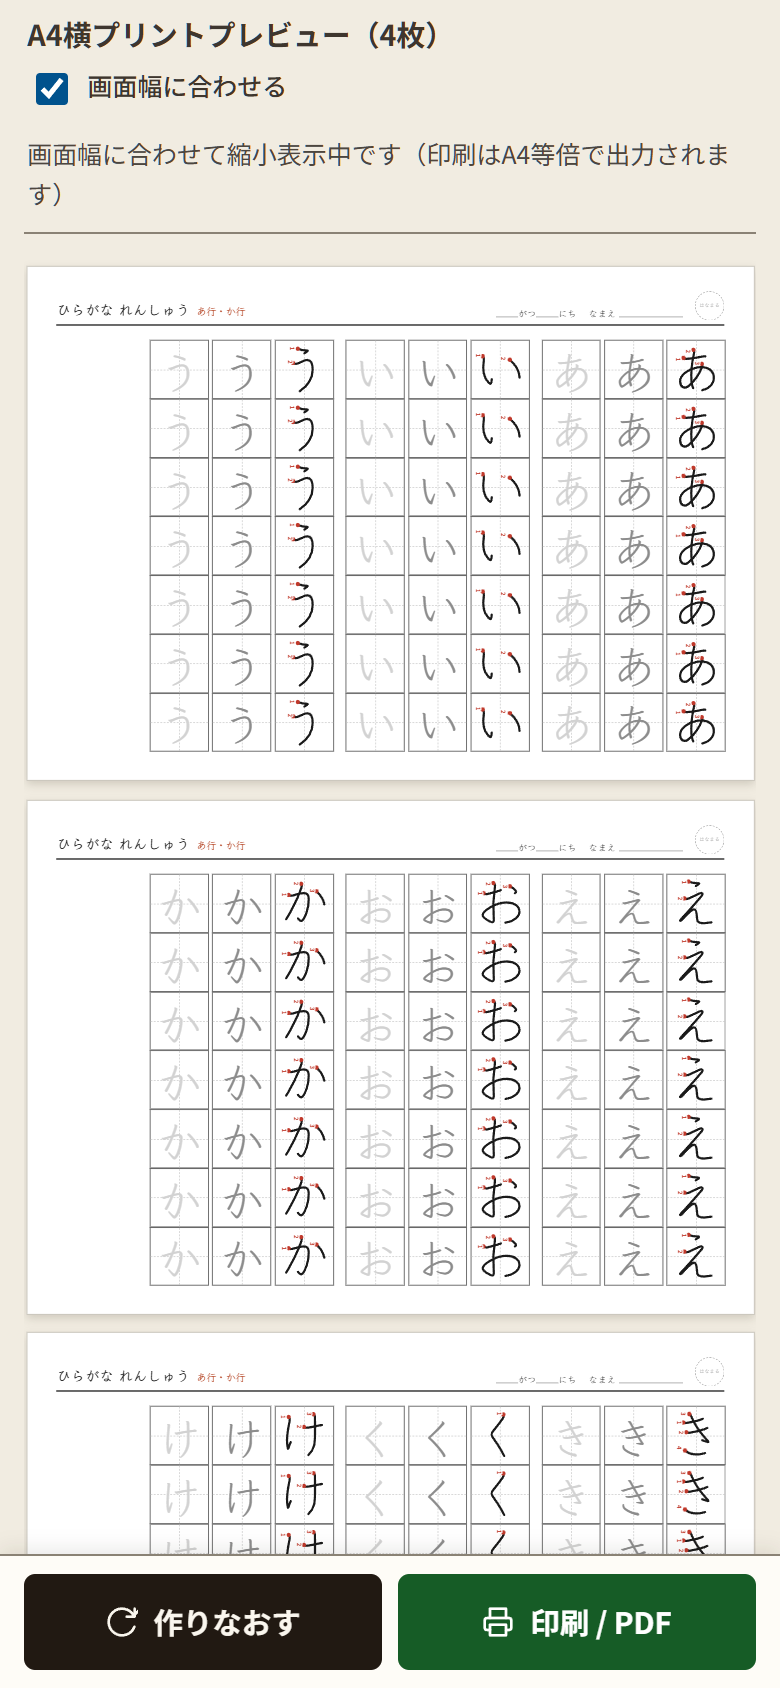
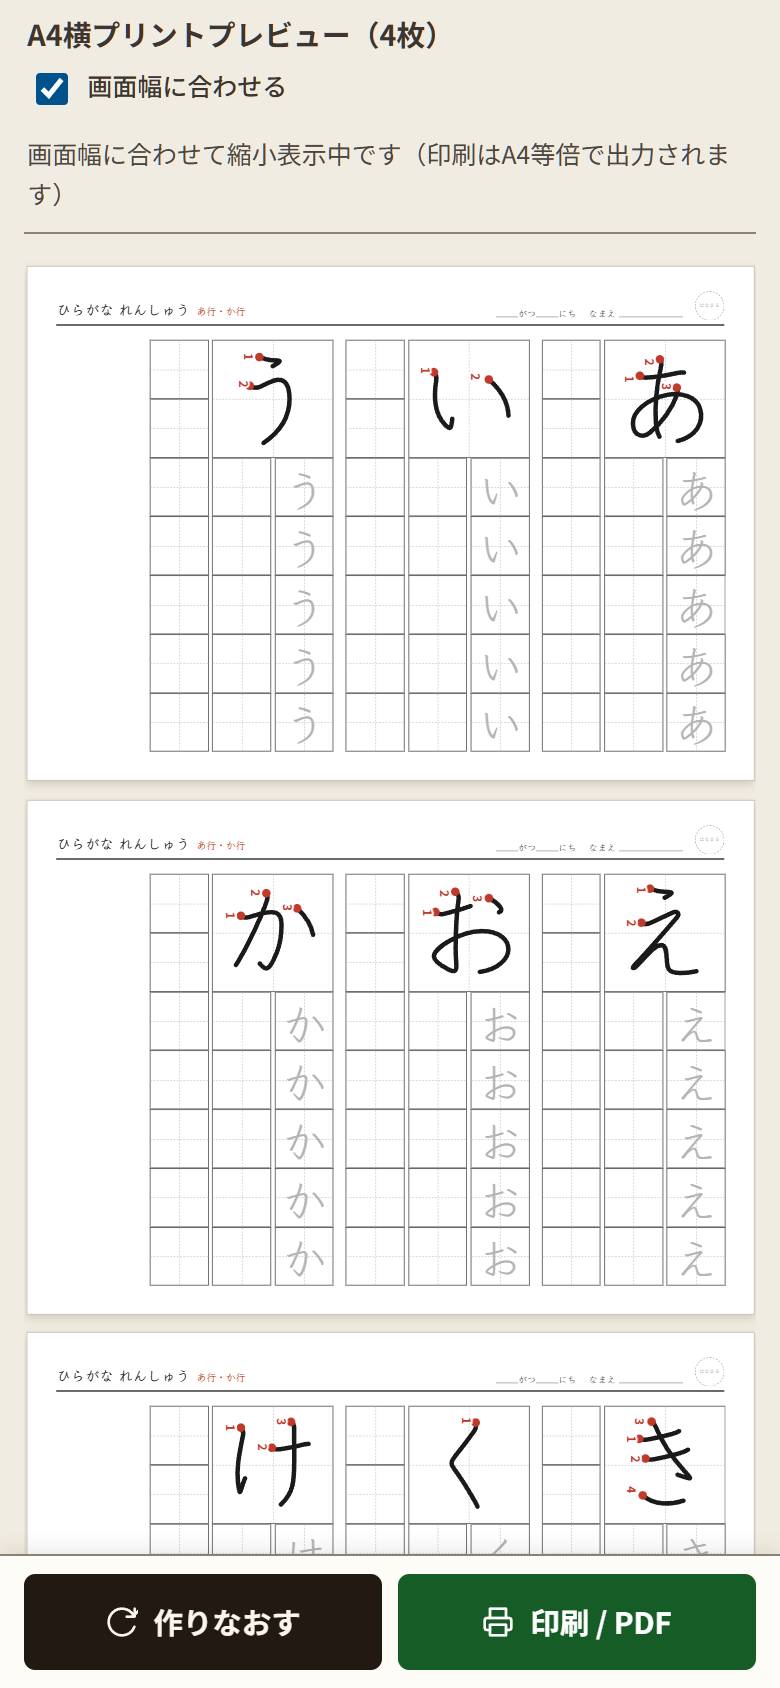
行れんしゅうを「大きな手本1つ＋なぞり1列＋書く列」に変え、字の大きさを選べるようにする
- 1文字ごとに、右上に4マス分（2×2）の大きな手本を1つ置く
- 手本の下の右の列をうすいなぞり字1列、左の列とその左を空マス（書く列）にする
- 「書く列の数」（1〜4列）と「字の大きさ」（マスの6割・7割半・8割半）を追加
- 行れんしゅうでは「なぞる数」「だんだんうすくする」を使わない
- Service Worker のキャッシュ名を更新
- README・利用ガイド・スクリーンショットを新しいレイアウトに合わせる

diff --git a/public/app.js b/public/app.js
@@ -69,9 +69,9 @@ const RADIOS = ['format', 'script'];
 const SELECTS = {
   linesPerUnit: 'linesPerUnit', singleLines: 'singleLines', chartMode: 'chartMode', blankRate: 'blankRate',
   source: 'source', order: 'order', cellSize: 'cellSize', traceCount: 'traceCount', glyph: 'glyphSelect',
-  traceStyle: 'traceStyle', sets: 'setCount',
+  traceStyle: 'traceStyle', sets: 'setCount', blankCols: 'blankCols', glyphScale: 'glyphScale',
 };
-const NUMERIC = new Set(['linesPerUnit', 'singleLines', 'blankRate', 'cellSize', 'traceCount', 'sets']);
+const NUMERIC = new Set(['linesPerUnit', 'singleLines', 'blankRate', 'cellSize', 'traceCount', 'sets', 'blankCols', 'glyphScale']);
 const CHECKS = {
   answer: 'opt-answer', showPicture: 'opt-picture', fade: 'opt-fade', strokeNumbers: 'opt-numbers',
   startDots: 'opt-start', guides: 'opt-guides', metaName: 'meta-name', metaDate: 'meta-date',
@@ -112,11 +112,11 @@ function applyConfig(cfg) {
 const SEION = ROWS.filter(r => r.group === 'seion').map(r => r.key);
 const RECOMMEND = {
   first: { format: 'single', script: 'hira', source: 'rows', rows: ['a'], cellSize: 30, glyph: 'stroke', traceStyle: 'dot', traceCount: 4, singleLines: 2, strokeNumbers: true, startDots: true, order: 'seq' },
-  nencho: { format: 'line', script: 'hira', source: 'rows', rows: ['a', 'ka'], cellSize: 24, glyph: 'klee', traceStyle: 'gray', traceCount: 3, linesPerUnit: 1, strokeNumbers: true, startDots: true, order: 'seq' },
-  grade1: { format: 'line', script: 'hira', source: 'rows', rows: SEION, cellSize: 20, glyph: 'klee', traceStyle: 'gray', traceCount: 2, linesPerUnit: 1, strokeNumbers: false, order: 'seq' },
+  nencho: { format: 'line', script: 'hira', source: 'rows', rows: ['a', 'ka'], cellSize: 24, glyph: 'klee', traceStyle: 'gray', traceCount: 3, blankCols: 2, strokeNumbers: true, startDots: true, order: 'seq' },
+  grade1: { format: 'line', script: 'hira', source: 'rows', rows: SEION, cellSize: 20, glyph: 'klee', traceStyle: 'gray', traceCount: 2, blankCols: 2, strokeNumbers: false, order: 'seq' },
   chart: { format: 'chart', script: 'hira', source: 'rows', rows: SEION, chartMode: 'fill', blankRate: 35, answer: true, cellSize: 24, glyph: 'klee' },
   word: { format: 'word', script: 'hira', source: 'rows', rows: ['a', 'ka', 'sa'], cellSize: 20, glyph: 'klee', traceStyle: 'gray', traceCount: 1, linesPerUnit: 1, showPicture: true, strokeNumbers: false, order: 'seq' },
-  dakuon: { format: 'line', script: 'hira', source: 'rows', rows: ['ga', 'za', 'da', 'ba', 'pa', 'y-き', 'y-し', 'y-ち'], cellSize: 20, glyph: 'klee', traceStyle: 'gray', traceCount: 2, linesPerUnit: 1, strokeNumbers: false, order: 'seq' },
+  dakuon: { format: 'line', script: 'hira', source: 'rows', rows: ['ga', 'za', 'da', 'ba', 'pa', 'y-き', 'y-し', 'y-ち'], cellSize: 20, glyph: 'klee', traceStyle: 'gray', traceCount: 2, blankCols: 2, strokeNumbers: false, order: 'seq' },
   katakana: { format: 'single', script: 'kata', source: 'rows', rows: ['a'], cellSize: 30, glyph: 'stroke', traceStyle: 'dot', traceCount: 4, singleLines: 2, strokeNumbers: true, startDots: true, order: 'seq' },
 };
 
@@ -215,6 +215,10 @@ function wrapSheet(body, cfg, badge) {
   const sheet = document.createElement('div');
   sheet.className = 'sheet';
   sheet.style.setProperty('--kana-font', FONTS[cfg.glyph] || FONTS.klee);
+  // 字の大きさ（マスに対する割合）。書き順データの字はふつう（76%）を基準に拡大・縮小する
+  const scale = (cfg.glyphScale || 76) / 100;
+  sheet.style.setProperty('--glyph-scale', String(scale));
+  sheet.style.setProperty('--glyph-ratio', String(scale / 0.76));
   sheet.appendChild(buildSheetHeader(cfg, badge));
   sheet.appendChild(body);
   return sheet;

diff --git a/public/sheets.js b/public/sheets.js
@@ -198,24 +198,64 @@ function fadeColumnsBlock(text, dims, s, ctx, { gap, head } = {}) {
 }
 
 // ===== A. 行れんしゅう =====
+// 1文字ぶんは、右上に 4マス分（2×2）の大きな手本を1つ。
+// その下の右の列をうすいなぞり字、左の列を空マスにし、さらに左へ空マスの列を続ける。
+//   cfg.blankCols: 書く列（空マスの列）の数。手本の下の左の列も1つに数える。
+function repeatLine(unit, kind, cap, s, gap, extra = {}) {
+  const len = [...unit].length * s;
+  const count = Math.max(1, Math.floor((cap + gap + 0.01) / (len + gap)));
+  return flow(Array.from({ length: count },
+    () => ({ cells: cellsOf(unit, kind, { unit, ...extra }), gapBefore: gap })), cap, s)[0];
+}
+
+function bigModelBlock(unit, dims, s, ctx, blankCols) {
+  const chars = [...unit];
+  const gap = chars.length > 1 ? SLOT_GAP : 0;
+  // 幅は2列ぶん（列のすきまも含む）、高さは2マスぶんにして、下と左の列にそろえる
+  const big = s * 2;
+  const rest = dims.inline - big * chars.length;
+
+  const el = document.createElement('div');
+  el.className = 'unit-block big-model-block';
+  const top = document.createElement('div');
+  top.className = 'line';
+  const model = document.createElement('div');
+  model.className = 'cell-group';
+  chars.forEach(ch => {
+    const box = cell({ kind: 'model', ch, unit }, big, ctx);
+    box.style.blockSize = (big + GAP_IN) + 'mm';
+    model.appendChild(box);
+  });
+  top.appendChild(model);
+
+  const under = document.createElement('div');
+  under.className = 'under-model';
+  const trace = repeatLine(unit, 'trace', rest, s, gap, { color: traceColor(0, 1, false) });
+  const firstBlank = repeatLine(unit, 'blank', rest, s, gap);
+  const traceEl = renderLine(trace, s, ctx);
+  const blankEl = renderLine(firstBlank, s, ctx);
+  blankEl.style.marginBlockStart = GAP_IN + 'mm';
+  under.append(traceEl, blankEl);
+  top.appendChild(under);
+  el.appendChild(top);
+
+  let used = big * chars.length + trace.used;
+  for (let i = 1; i < blankCols; i++) {
+    const line = repeatLine(unit, 'blank', dims.inline, s, gap);
+    const lineEl = renderLine(line, s, ctx);
+    lineEl.style.marginBlockStart = GAP_IN + 'mm';
+    el.appendChild(lineEl);
+    used = Math.max(used, line.used);
+  }
+  const cols = blankCols + 1; // なぞりの列 + 書く列
+  return { el, size: cols * s + (cols - 1) * GAP_IN, used };
+}
+
 export function buildLinePages(cfg, units, ctx) {
   const dims = paperDims(cfg);
   const s = cfg.cellSize;
-  if (ctx.fade) {
-    const blocks = units.map(unit => fadeColumnsBlock(unit, dims, s, ctx,
-      { gap: [...unit].length > 1 ? SLOT_GAP : 0 }));
-    const maxUsed = Math.max(0, ...blocks.map(b => b.used));
-    return pagesToBodies(paginate(blocks, dims, 5), dims, 5, maxUsed);
-  }
-  const blocks = units.map(unit => {
-    const gap = [...unit].length > 1 ? SLOT_GAP : 0;
-    const base = [{ cells: cellsOf(unit, 'model', { unit }), gapBefore: gap }]
-      .concat(traceGroups(unit, cfg.traceCount, ctx, gap, unit));
-    const lines = fillWithBlanks(base, () => ({ cells: cellsOf(unit, 'blank'), gapBefore: gap }),
-      dims.inline, s, cfg.linesPerUnit);
-    return unitBlock(lines, s, ctx);
-  });
-  const between = cfg.linesPerUnit > 1 ? 5 : 2.5;
+  const blocks = units.map(unit => bigModelBlock(unit, dims, s, ctx, cfg.blankCols));
+  const between = 5;
   const maxUsed = Math.max(0, ...blocks.map(b => b.used));
   return pagesToBodies(paginate(blocks, dims, between), dims, between, maxUsed);
 }

diff --git a/public/index.html b/public/index.html
@@ -56,7 +56,7 @@
           <label class="format-option">
             <input type="radio" name="format" value="line" checked>
             <span class="format-name">行れんしゅう</span>
-            <span class="format-desc">右の列から 手本→なぞり</span>
+            <span class="format-desc">大きな手本→なぞり1列→書く列</span>
           </label>
           <label class="format-option">
             <input type="radio" name="format" value="single">
@@ -75,7 +75,22 @@
           </label>
         </div>
 
-        <div class="op-block" data-for="line word">
+        <div class="op-block" data-for="line">
+          <div class="op-title">行れんしゅうの設定</div>
+          <div class="digits-wrap">
+            <label class="digit-field">書く列の数
+              <select id="blankCols">
+                <option value="1">1列</option>
+                <option value="2" selected>2列</option>
+                <option value="3">3列</option>
+                <option value="4">4列</option>
+              </select>
+            </label>
+          </div>
+          <div class="help-text">1文字ごとに、右上に4マス分の大きな手本を1つ置きます。手本の下の右の列はうすいなぞり字、そこから左は自分で書く空マスの列です。書く列の数には、手本の下の左の列も入ります。</div>
+        </div>
+
+        <div class="op-block" data-for="word">
           <div class="op-title">行の設定</div>
           <div class="digits-wrap">
             <label class="digit-field">1つあたりの行数
@@ -190,6 +205,13 @@
               <option value="16">小（16mm）</option>
             </select>
           </label>
+          <label class="digit-field">字の大きさ
+            <select id="glyphScale">
+              <option value="60">小（マスの6割）</option>
+              <option value="76" selected>ふつう（マスの7割半）</option>
+              <option value="86">大（マスの8割半）</option>
+            </select>
+          </label>
           <label class="digit-field">なぞる数
             <select id="traceCount">
               <option value="0">なし</option>
@@ -201,7 +223,7 @@
             </select>
           </label>
         </div>
-        <div class="help-text">目安：年少・年中は特大、年長は大、小学1年は中。</div>
+        <div class="help-text">目安：年少・年中は特大、年長は大、小学1年は中。字の大きさはマスに対する大きさです。行れんしゅうは なぞりが1列に決まっているので、なぞる数は使いません。</div>
 
         <div class="form-group" style="margin-top:1rem;">
           <label for="glyphSelect">字のかたち</label>

diff --git a/public/style.css b/public/style.css
@@ -426,10 +426,11 @@ textarea:focus-visible { border-color: var(--color-ink-2); outline: 2px solid va
   display: block;
   writing-mode: horizontal-tb;
   font-family: var(--kana-font);
-  font-size: calc(var(--cell) * 0.76);
+  font-size: calc(var(--cell) * var(--glyph-scale, 0.76));
   line-height: 1;
 }
-.glyph-svg { position: relative; z-index: 1; display: block; width: 100%; height: 100%; }
+.glyph-svg { position: relative; z-index: 1; display: block; flex: none; width: calc(100% * var(--glyph-ratio, 1)); height: calc(100% * var(--glyph-ratio, 1)); }
+.under-model { flex: none; }
 .v-small { transform: translate(20%, -44%); }
 .v-rotate { transform: rotate(90deg); }
 

diff --git a/public/sw.js b/public/sw.js
@@ -1,4 +1,4 @@
-const CACHE_NAME = 'hiragana-renshu-v2';
+const CACHE_NAME = 'hiragana-renshu-v3';
 const PRECACHE_URLS = [
   '/', '/index.html', '/style.css', '/app.js', '/store.js', '/kana.js', '/render.js', '/sheets.js',
   '/data/strokes.js', '/manifest.webmanifest', '/icons/hiragana.svg',

diff --git a/docs/USAGE.md b/docs/USAGE.md
@@ -53,11 +53,13 @@
 
 ![行れんしゅうのプリント](screenshots/sheet-line.png)
 
-1文字ずつ練習します。「なぞる字をだんだんうすくする」がオンのときは、右の列から **手本 → なぞり字（濃い）→ なぞり字（うすい）** の3列が並びます。
+1文字ずつ練習します。1文字ごとに、次のように並びます。
 
-オフのときは、1行（1列）に上から **手本 → なぞり字 → 空マス** を並べます。
+1. 右上に、**4マス分（2×2）の大きな手本**を1つ。
+2. 手本の下の右の列に、ふつうのマスで**うすいなぞり字を1列**。
+3. 手本の下の左の列と、そこから左に続く列は、自分で書く**空マス**。
 
-- **1つあたりの行数**（1〜3行）：オフのときに使います。増やすと、空マスで書く量が増えます。
+- **書く列の数**（1〜4列）：空マスの列の数です。手本の下の左の列も1つに数えます。
 
 ### 1もじじっくり
 
@@ -86,7 +88,7 @@
 選んだ行の字ではじまることば（「あり」「いぬ」など）を練習します。「なぞる字をだんだんうすくする」がオンのときは、右の列から **絵つきの手本 → なぞり字（濃い）→ なぞり字（うすい）** の3列、オフのときは1列に絵・手本・なぞり・空マスを並べます。
 
 - **絵（絵文字）を表示する**：オフにすると絵の欄が空欄になり、子どもが自分で絵をかけます。絵が用意されていないことばも空欄になります。
-- **1つあたりの行数**：オフのときに使います。行れんしゅうと同じです。
+- **1つあたりの行数**（1〜3行）：オフのときに使います。増やすと、空マスで書く量が増えます。
 
 ## 4. 練習する文字
 
@@ -102,14 +104,15 @@
 ## 5. マス・字のかたち
 
 - **マスの大きさ**：特大（30mm）／大（24mm）／中（20mm）／小（16mm）。目安は、年少・年中は特大、年長は大、小学1年は中です。
-- **なぞる数**：手本のあとに並べるなぞり字の数（なし〜6）。行れんしゅう・ことばで「だんだんうすくする」がオンのときは、なぞりの列2つに固定です。
+- **字の大きさ**：小（マスの6割）／ふつう（7割半）／大（8割半）。マスに対する字の大きさで、手本・なぞり字のどちらにも効きます。
+- **なぞる数**：手本のあとに並べるなぞり字の数（なし〜6）。行れんしゅうはなぞりが1列に決まっているので使いません。ことばで「だんだんうすくする」がオンのときは、なぞりの列2つに固定です。
 - **字のかたち**
   - 教科書体風（Klee One）
   - UDデジタル教科書体：Windows に入っている書体です。ない環境では Klee One で表示します。
   - まるもじ（Zen Maru Gothic）
   - えんぴつ風：書き順データから線で描いた字です。
 - **なぞる字**：うすい字／点線（えんぴつ風の字形）。
-- **なぞる字をだんだんうすくする**：右の列ほど濃く、左の列ほどうすくなります（行れんしゅう・ことば）。
+- **なぞる字をだんだんうすくする**：ことばでは右の列ほど濃く、左の列ほどうすくなります。1もじじっくりでは、上のなぞり字ほど濃くなります。行れんしゅうのなぞり字はいつも同じうすさです。
 - **手本に書き順の番号をつける**：番号つきの手本は、えんぴつ風の字形で表示します。
 - **書き順の番号に、書きはじめの●を添える**
 - **マスに十字の点線を入れる**：字のバランスをとる補助線です。

diff --git a/README.md b/README.md
@@ -37,7 +37,7 @@
 | 行れんしゅう | 1もじじっくり | ことば |
 |:---:|:---:|:---:|
 | [![行れんしゅうのプリント](docs/screenshots/sheet-line.png)](docs/screenshots/sheet-line.png) | [![1もじじっくりのプリント](docs/screenshots/sheet-single.png)](docs/screenshots/sheet-single.png) | [![ことばのプリント](docs/screenshots/sheet-word.png)](docs/screenshots/sheet-word.png) |
-| 右の列から 手本 → なぞり字（濃い）→ なぞり字（うすい）の3列。手本には書き順の番号と書きはじめの●。 | 大きな手本と1画ずつの書き順図、例のことば（絵つき）。はじめて習う字にぴったり。 | 「あり」「いぬ」などのことばを、絵（絵文字）つきの手本の列と、なぞりの列で。 |
+| 4マス分の大きな手本を1つ。その下にうすいなぞり字を1列、左は自分で書く空マスの列。手本には書き順の番号と書きはじめの●。 | 大きな手本と1画ずつの書き順図、例のことば（絵つき）。はじめて習う字にぴったり。 | 「あり」「いぬ」などのことばを、絵（絵文字）つきの手本の列と、なぞりの列で。 |
 
 | 50音ひょう（穴うめ） | 国語ノート風 |
 |:---:|:---:|
@@ -72,7 +72,7 @@
 
 - **ひらがな／カタカナ**の切りかえ。せいおん・だくおん・はんだくおん・ようおん（きゃ・しゅ…）を行ごとに選べます
 - **じぶんで入力**：名前の字や好きなことばでプリントを作れます
-- **マスの大きさ**4段階（特大30mm／大24mm／中20mm／小16mm）、なぞる数、十字の点線の有無
+- **マスの大きさ**4段階（特大30mm／大24mm／中20mm／小16mm）、**字の大きさ**3段階（マスの6割／7割半／8割半）、なぞる数、十字の点線の有無
 - **字のかたち**4種類：教科書体風（Klee One）／UDデジタル教科書体（Windowsのみ）／まるもじ／えんぴつ風（書き順データ）。なぞり字は「うすい字」か「点線」
 - あいうえお順／ばらばら、**1〜5セット**をまとめて出力
 - なまえ・日付・組・番号・**はなまる欄**、練習する行の表示
